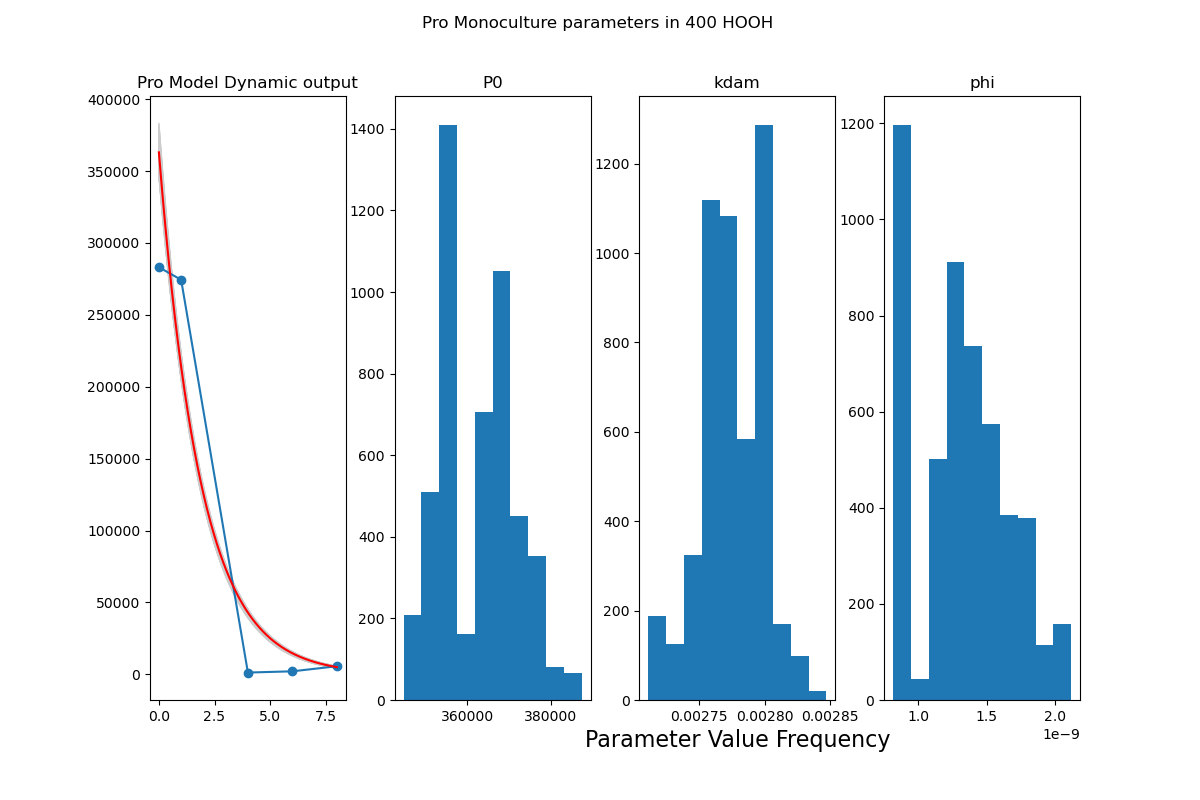
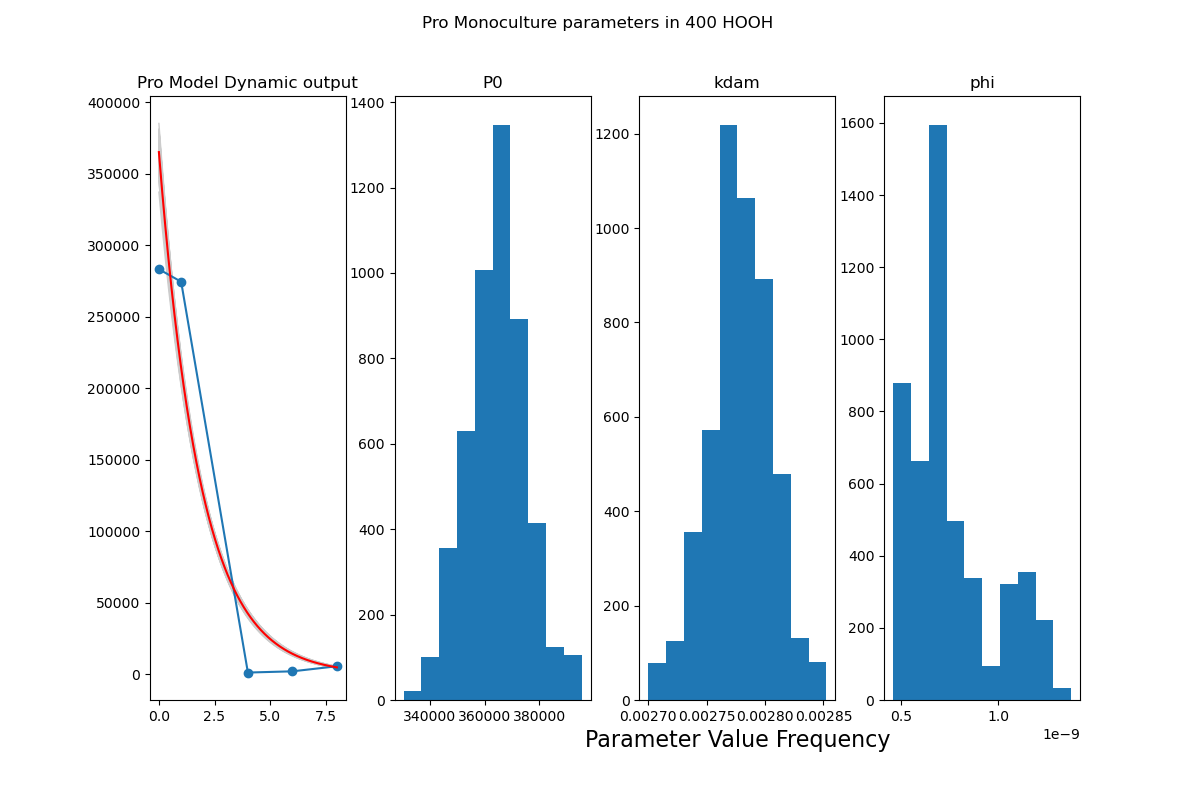
broken?

diff --git a/src/model_pro_batch.py b/src/model_pro_batch.py
@@ -22,7 +22,6 @@ import ODElib
 import random as rd
 import sys
 
-
 ######################################################
 #reading in data and configureing 
 #####################################################
@@ -35,46 +34,35 @@ df_all = df_1
 #df_all = pd.read_csv("../data/BCC_1-31-dataset.csv",header=1)
 df_all.drop(df_all.columns[df_all.columns.str.contains('unnamed',case = False)],axis = 1, inplace = True)
 df_all = df_all.rename({'time(day)':'time'}, axis=1)    #'renaming column to make it callable by 'times'
-
-#slicing data into abiotic, biotic, and Pro only dataframes
-
-df_abiotic = df_all.loc[df_all['assay'].str.contains('abiotic', case=False)].copy()  
-df_co = df_all.loc[df_all['assay'].str.contains('coculture', case=False)].copy()  
 df_mono = df_all.loc[~df_all['assay'].str.contains('coculture', case=False)].copy()  
 
-df_P = df_mono.loc[df_mono['organism'].str.contains('P', case=False)].copy() 
-df_S = df_mono.loc[df_mono['organism'].str.contains('S', case=False)].copy() 
-
-#setting working df as pro only 
-df = df_P
-
-#####################################################
-#config data in df from raw for odelib usefulness
-#####################################################
-
-#making avg columns of technical reps (std here only for graphing, not logged here)
+df = df_mono
 df['log1'] = np.log(df['rep1'])
 df['log2'] = np.log(df['rep2'])
 df['log3'] = np.log(df['rep3'])
 df['log4'] = np.log(df['rep4'])
 df['avg1'] = df[['rep1', 'rep3']].mean(axis=1)
 df['avg2'] = df[['rep2', 'rep4']].mean(axis=1)
+df['abundance'] = df[['rep1','rep2','rep3', 'rep4']].mean(axis=1)
 df['std1'] = df[['rep1', 'rep3']].std(axis=1)
 df['std2'] = df[['rep2', 'rep4']].std(axis=1)
+df['sigma'] = df[['rep1','rep2','rep3', 'rep4']].std(axis=1)
 
 df['lavg1'] = df[['log1', 'log3']].mean(axis=1) #making logged avg columns in df for odelib to have log_abundance to use for posterior calcs
 df['lavg2'] = df[['log2', 'log4']].mean(axis=1)
+df['log_abundance'] = df[['log1','log2', 'log3','log4']].mean(axis=1)
 df['stdlog1'] = df[['log1', 'log3']].std(axis=1) #taking stdv of logged reps
 df['stdlog2'] = df[['log2', 'log4']].std(axis=1)
+df['log_sigma'] = df[['log1','log2', 'log3','log4']].std(axis=1)
 
-#setting working df for model as far as abundance and log abundance values 
-df.rename(columns = {'avg1':'abundance'}, inplace = True) #reaneme main df column to be fit by odelib 
-df.rename(columns = {'lavg1':'log_abundance'}, inplace = True) #reaneme log of main df column to be fit by odelib 
 
-#splitting df of Pro into 0 and 400 H assays 
-df0 = df.loc[~ df['assay'].str.contains('4', case=False)]  #assay 0 H 
-df4 = df.loc[df['assay'].str.contains('4', case=False)]  #assay 400 H (actually around 360 nM in data)
 
+#slicing data into abiotic, biotic, and Pro only dataframes
+df0 = df.loc[~ df['assay'].str.contains('4', case=False) & (df['Vol_number']== 1)]  #assay 0 H 
+df4 = df.loc[(df['assay'].str.contains('4', case=False)) & (df['Vol_number']== 1)]
+
+
+df = df0[df0['organism']== 'P']
 #####################################################
 #plotting data and error within biological reps 
 #####################################################
@@ -111,7 +99,7 @@ plt.legend()
 inits0 = pd.read_csv("../data/inits/pro9215_inits0.csv")
 
 #setting how many MCMC chains you will run 
-nits = 10000 # nits - INCREASE FOR MORE BELL CURVEY LOOKING HISTS of params
+nits = 100000 # nits - INCREASE FOR MORE BELL CURVEY LOOKING HISTS of params
 
 # state variable names
 snames = ['P','N'] #order must match all further model mentions (same fro params) 
@@ -144,7 +132,7 @@ def get_model(df):
                           k2 = k2_prior.copy(),
                           P0 = P0_prior.copy(),
                           N0  = N0_prior.copy(),
-                          t_steps=1000,
+                          t_steps=10000,
                           P = P0_mean,
                           N = N0_mean,
                             )
@@ -176,7 +164,7 @@ mod0 = a0.integrate()
 #####################################################
 
 ###### fig set up
-fig3, (ax0,ax1)= plt.subplots(1,2,figsize = (10,6)) #fig creationg of 1 by 2
+fig3, (ax0,ax1)= plt.subplots(1,2,figsize = (9,7)) #fig creationg of 1 by 2
 fig3.suptitle('Pro in 0 H Model') #setting main title of fig
 
 ####### fig config and naming 

diff --git a/src/model_spiked_pro_batch.py b/src/model_spiked_pro_batch.py
@@ -118,7 +118,7 @@ plt.legend()
 inits4 = pd.read_csv("../data/inits/pro9215_inits4.csv")
 
 #setting how many MCMC chains you will run 
-nits = 1000 # nits - INCREASE FOR MORE BELL CURVEY LOOKING HISTS of params
+nits = 10000 # nits - INCREASE FOR MORE BELL CURVEY LOOKING HISTS of params
 
 # state variable names
 snames = ['P','N','H'] #order must match all further model mentions (same fro params) 
@@ -139,9 +139,9 @@ H0_prior=ODElib.parameter(stats_gen=scipy.stats.lognorm, hyperparameters={'s':pw
 #pw/10 for state variable initial conditions (P0, H0, N0) bc we theoretically have a better handle on thier values. (not completely holding constant like Qnp but not as loose as params either)
 
 #still not sure what part of fitting algor this is used for
-P0_mean = 50000
-N0_mean = 900000
-H0_mean = 1000
+P0_mean = inits4['P0'][0]
+N0_mean = inits4['N0'][0]
+H0_mean = inits4['H0'][0]
 
 #####################################################
 #functions  for modeling and graphing model uncertainty 
@@ -158,7 +158,7 @@ def get_model(df):
                           P0 = P0_prior.copy(),
                           N0  = N0_prior.copy(),
                           H0  = H0_prior.copy(),
-                          t_steps=1000,
+                          t_steps=10000,
                           P = P0_mean,
                           N = N0_mean,
                           H = H0_mean,
